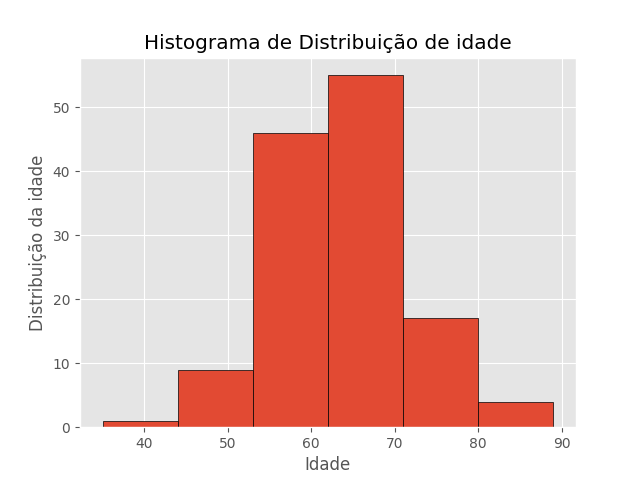
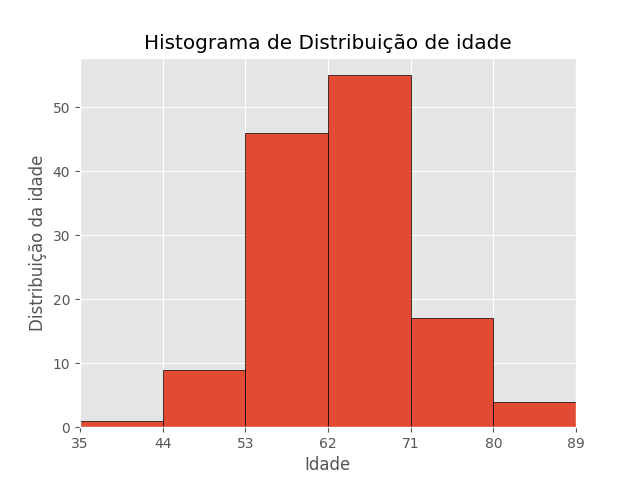
formatting histogram

diff --git a/1-Preprocessing/DataFrequencyDistribution.py b/1-Preprocessing/DataFrequencyDistribution.py
@@ -49,25 +49,22 @@ def main():
     print('Quantidade de atributos em cada classe', qtd_atr)
 
     #Histograma do atributo idade
-    # bin = []
-    # for number in frequencias:
-        # bin.append(int(number[0:3]))
+    bin = []
+    for number in frequencias:
+        bin.append(int(number[0:3]))
 
-    # last_range = frequencias.pop()
+    last_range = frequencias.pop()
 
-    # bin.append(int(last_range[5:7]))
+    bin.append(int(last_range[5:7]))
 
-    print(bin)
-    print(array_age)
-    plt.hist(array_age, bins=bin, edgecolor='black')
+    
     plt.xlabel("Idade")
     plt.ylabel("Distribuição da idade")
     plt.title("Histograma de Distribuição de idade")
-    plt.savefig('1-Preprocessing/histogram.png', format='png')
-    my_bins = [35, 44, 53, 62, 71, 80, 89]
     plt.xlim(35, 89)
-    plt.xticks(my_bins)
-    plt.hist(array_age, bins=my_bins, edgecolor='black')
+    plt.xticks(bin)
+    plt.hist(array_age, bins=bin, edgecolor='black')
+    plt.savefig('1-Preprocessing/histogram.png', format='png')
     plt.show()
     
 
